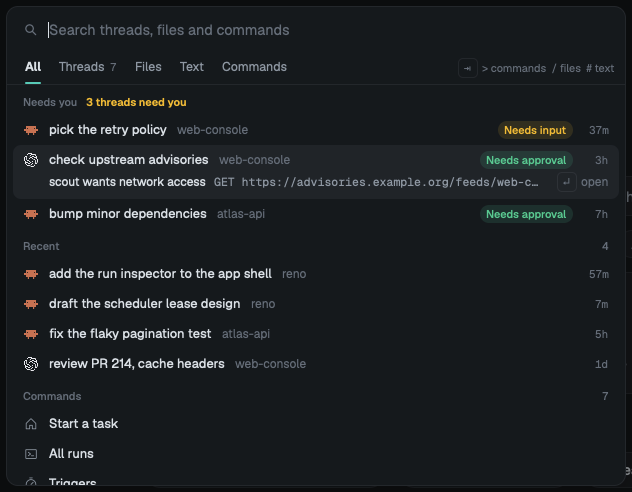
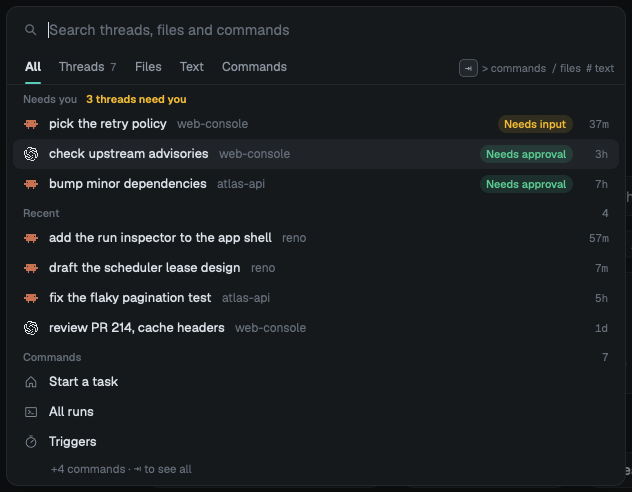
app: palette rows are one line, a held action too (owner)
Brief amendment 5: "we just show the title of session". The held-action line, its data
and its test go; the brief and its screenshot follow.

diff --git a/apps/reno-app/src/vm/palette.rs b/apps/reno-app/src/vm/palette.rs
@@ -56,14 +56,6 @@ impl Tab {
     }
 }
 
-/// A held action of a thread, in words, and its exact command.
-#[derive(Clone, Debug, PartialEq, Eq)]
-pub(crate) struct Held {
-    /// "scout wants network access", worded as Home's approval card.
-    pub(crate) sentence: String,
-    pub(crate) command: String,
-}
-
 /// One thread the palette can open.
 #[derive(Clone, Debug, PartialEq, Eq)]
 pub(crate) struct Thread {
@@ -77,8 +69,6 @@ pub(crate) struct Thread {
     pub(crate) dot: Dot,
     pub(crate) age: String,
     pub(crate) updated_ms: u64,
-    /// Set when its latest run holds an action for the person.
-    pub(crate) held: Option<Held>,
 }
 
 /// One matching line of a file.
@@ -495,12 +485,8 @@ pub(crate) fn step(selected: usize, len: usize, down: bool) -> usize {
     }
 }
 
-/// The palette's threads, from the sidebar's folders. `updated` and `held` read the run.
-pub(crate) fn threads(
-    folders: &[Folder],
-    updated: impl Fn(&RunId) -> u64,
-    held: impl Fn(&RunId) -> Option<Held>,
-) -> Vec<Thread> {
+/// The palette's threads, from the sidebar's folders. `updated` reads the run.
+pub(crate) fn threads(folders: &[Folder], updated: impl Fn(&RunId) -> u64) -> Vec<Thread> {
     folders
         .iter()
         .flat_map(|folder| {
@@ -513,7 +499,6 @@ pub(crate) fn threads(
                 dot: row.dot,
                 age: row.age.clone(),
                 updated_ms: updated(&row.run),
-                held: held(&row.run),
             })
         })
         .collect()
@@ -543,7 +528,6 @@ mod tests {
             },
             age: "1h".to_owned(),
             updated_ms,
-            held: None,
         }
     }
 
@@ -901,7 +885,7 @@ mod tests {
     }
 
     #[test]
-    fn threads_come_from_the_sidebar_rows_with_their_project_and_held_action() {
+    fn threads_come_from_the_sidebar_rows_with_their_project() {
         let row = ThreadRow {
             thread: None,
             run: run("scout1"),
@@ -919,16 +903,11 @@ mod tests {
             waiting: 1,
             rows: vec![row],
         }];
-        let held = Held {
-            sentence: "scout wants network access".to_owned(),
-            command: "GET https://advisories.example.org/feeds/web-console.json".to_owned(),
-        };
-        let out = threads(&folders, |_| 42, |_| Some(held.clone()));
+        let out = threads(&folders, |_| 42);
         assert_eq!(out.len(), 1);
         assert_eq!(out[0].title, "check upstream advisories");
         assert_eq!(out[0].project, "web-console");
         assert_eq!(out[0].executor, "codex");
         assert_eq!(out[0].updated_ms, 42);
-        assert_eq!(out[0].held, Some(held));
     }
 }

diff --git a/apps/reno-app/src/ui/palette.rs b/apps/reno-app/src/ui/palette.rs
@@ -567,22 +567,11 @@ impl Palette {
                 .child(el)
         };
         let title = |e: StyledText| div().flex_shrink(1.0).min_w_0().truncate().child(e);
-        let mut second: Option<AnyElement> = None;
         let (line, spoken) = match item {
             Item::Thread(t) => {
-                if on && let Some(held) = &t.held {
-                    second = Some(held_line(
-                        theme,
-                        held.sentence.clone(),
-                        held.command.clone(),
-                    ));
-                }
-                let spoken = match (t.badge, &t.held) {
-                    (Some(b), Some(h)) if on => {
-                        format!("{}, {}, {}", t.title, b.label(), h.sentence)
-                    }
-                    (Some(b), _) => format!("{}, {}", t.title, b.label()),
-                    _ => t.title.clone(),
+                let spoken = match t.badge {
+                    Some(b) => format!("{}, {}", t.title, b.label()),
+                    None => t.title.clone(),
                 };
                 (
                     line.child(glyph(kit::logo(theme, &t.executor, 14.0)))
@@ -664,45 +653,8 @@ impl Palette {
                 cx.listener(move |this, _, _, cx| this.activate_item(item.clone(), cx))
             })
             .child(line)
-            .children(second)
             .into_any_element()
     }
-}
-
-/// A selected held action's second line: its sentence, its command, and what ↵ does.
-fn held_line(theme: &Theme, sentence: String, command: String) -> AnyElement {
-    div()
-        .id("palette-held")
-        .debug_selector(|| "palette-held".to_owned())
-        .pl(px(26.0))
-        .pb(px(7.0))
-        .mt(px(-3.0))
-        .flex()
-        .items_center()
-        .gap(px(8.0))
-        .text_size(px(12.0))
-        .child(div().flex_none().text_color(theme.text).child(sentence))
-        .child(
-            div()
-                .min_w_0()
-                .truncate()
-                .font_family(MONO)
-                .text_size(px(11.5))
-                .text_color(theme.muted)
-                .child(command),
-        )
-        .child(div().flex_1())
-        .child(
-            div()
-                .flex_none()
-                .flex()
-                .items_center()
-                .gap(px(4.0))
-                .text_color(theme.faint)
-                .child(kit::keycap(theme, "\u{21b5}", None))
-                .child("open"),
-        )
-        .into_any_element()
 }
 
 impl Render for Palette {

diff --git a/apps/reno-app/src/palette_tests.rs b/apps/reno-app/src/palette_tests.rs
@@ -113,7 +113,7 @@ fn enter_opens_the_first_waiting_thread(cx: &mut TestAppContext) {
 }
 
 #[gpui::test]
-fn typing_filters_and_a_held_action_carries_its_sentence_and_command(cx: &mut TestAppContext) {
+fn typing_filters_the_threads(cx: &mut TestAppContext) {
     let store = held(cx);
     let (root, vcx) = opened(cx, &store);
     vcx.simulate_keystrokes("cmd-k a d v i s");
@@ -121,32 +121,32 @@ fn typing_filters_and_a_held_action_carries_its_sentence_and_command(cx: &mut Te
     let s = sheet(vcx, &root);
     let threads = s.sections.iter().find(|x| x.kind == Kind::Threads).unwrap();
     assert_eq!(thread_title(&threads.items[0]), "check upstream advisories");
-    match &threads.items[0] {
-        Item::Thread(t) => {
-            let held = t.held.as_ref().expect("scout's fetch is held");
-            assert_eq!(held.sentence, "scout wants network access");
-            assert!(
-                held.command.starts_with("GET https://advisories"),
-                "{held:?}"
-            );
-        }
-        _ => unreachable!(),
-    }
-    assert!(
-        painted(vcx, "palette-held"),
-        "the selected held row shows its second line"
-    );
 }
 
 #[gpui::test]
-fn a_waiting_question_shows_no_second_line(cx: &mut TestAppContext) {
+fn a_waiting_thread_is_one_line_whatever_it_waits_for(cx: &mut TestAppContext) {
     let store = held(cx);
     let (root, vcx) = opened(cx, &store);
     vcx.simulate_keystrokes("cmd-k");
     draw(vcx);
-    let first = selected(vcx, &root).unwrap();
-    assert_eq!(thread_title(&first), "pick the retry policy");
-    assert!(!painted(vcx, "palette-held"));
+    assert_eq!(
+        thread_title(&selected(vcx, &root).unwrap()),
+        "pick the retry policy"
+    );
+    assert!(
+        !painted(vcx, "palette-held"),
+        "a question: the badge says it"
+    );
+    vcx.simulate_keystrokes("down");
+    draw(vcx);
+    assert_eq!(
+        thread_title(&selected(vcx, &root).unwrap()),
+        "check upstream advisories"
+    );
+    assert!(
+        !painted(vcx, "palette-held"),
+        "a held action: the badge says it too"
+    );
 }
 
 #[gpui::test]
@@ -245,10 +245,6 @@ fn arrows_move_the_selection_and_wrap(cx: &mut TestAppContext) {
     assert_eq!(
         thread_title(&selected(vcx, &root).unwrap()),
         "check upstream advisories"
-    );
-    assert!(
-        painted(vcx, "palette-held"),
-        "the held approval opens its second line"
     );
     vcx.simulate_keystrokes("up up");
     draw(vcx);

diff --git a/apps/reno-app/src/app.rs b/apps/reno-app/src/app.rs
@@ -1241,20 +1241,9 @@ impl RootView {
                 thread_of: &|run| store.thread_of(run),
             },
         );
-        let threads = palette::threads(
-            &folders,
-            |run| state.run(run).map_or(0, |r| r.updated_at_ms),
-            |run| {
-                state.approvals_for(run).next().map(|a| palette::Held {
-                    sentence: format!(
-                        "{} {}",
-                        crate::summary::approval_bot(state, a).unwrap_or("A run"),
-                        crate::summary::approval_what(state, a)
-                    ),
-                    command: crate::summary::subject_line(&a.subject),
-                })
-            },
-        );
+        let threads = palette::threads(&folders, |run| {
+            state.run(run).map_or(0, |r| r.updated_at_ms)
+        });
         let scope = store.looking_at().and_then(|looking| {
             folders
                 .iter()

diff --git a/docs/design/2026-11-19-palette-ui-brief.md b/docs/design/2026-11-19-palette-ui-brief.md
@@ -7,12 +7,13 @@ Screenshot: [2026-11-19-palette-ui-brief.png](./2026-11-19-palette-ui-brief.png)
 ## Decision
 
 Direction **E "Compact tabs"**: the scope tabs and live counts of draft B, made compact (one-line
-rows, underline tabs, no footer), with draft D's waiting detail shrunk to one line and kept only
-for a held action. Five directions were drafted in the app on the fake daemon (A Spotlight list,
+rows, underline tabs, no footer). Every row is one line: a waiting thread shows its title and its
+badge, nothing more. Five directions were drafted in the app on the fake daemon (A Spotlight list,
 B Scoped tabs, C List + preview, D = A with C's waiting preview inline, E). The owner first
 agreed to D, then asked for "one more option upgrade from B - but make it more compact, and
 modern more", judged E "better", removed the question line ("the status dot is enough"), then
-"remove it and lock".
+"remove it and lock". Testing the build, the owner removed the held action's line as well: "we
+just show the title of session it good dont' make it complex".
 
 ## Grounding
 
@@ -114,22 +115,17 @@ The palette is the app's only search and its main way around: the sidebar has no
 - **Match:** the first occurrence of the query in a row's title, name or line is bold and
   `accent`.
 - **Selected:** `raised` at 75% fill. Hover is the same fill.
-- **Held action, selected:** the row grows a second line, indented to the title:
-  - the bot's sentence, as Home's approval card words it, in `text` ("scout wants network
-    access", "keeper wants to push to atlas-api");
-  - the exact command in Geist Mono 11.5 `muted`, truncating;
-  - right-aligned a ↵ keycap and "open".
-- **Question, selected:** no second line. The badge says it.
-- **Components:** rung 1 — `kit::logo`, `sidebar::badge_tag` (make it shared), `icon`, the panel's
-  `keycap` (move it into `kit`); `summary::parse_title`, `summary::approval_bot`,
-  `summary::action_word`, `summary::subject_line` for the held-action sentence and command.
+- **Waiting thread, selected:** still one line. The badge ("Needs input", "Needs approval") says
+  what it waits for; the thread itself says the rest.
+- **Components:** rung 1 — `kit::logo`, `sidebar::badge_tag` (make it shared), `icon`,
+  `kit::keycap`; `summary::parse_title` for the title.
 - **Keys and clicks:** ↑ ↓ move (wrapping); ↵ or a click activates:
   - a thread opens it (`open_run` on its latest run);
   - a command runs it;
   - a file opens it in the side panel's Files tab;
   - a line opens that file at that line.
 - **A11y:** each row is a button whose label includes the badge ("check upstream advisories,
-  Needs approval"); the second line is part of the selected row's label.
+  Needs approval").
 
 ## Type & color (summary)
 
@@ -149,12 +145,11 @@ selected, and the tabs count every kind of result before you switch.
 2. Then an extra direction from B, "more compact, and modern more": E.
 3. E chosen over D ("that better").
 4. No second line for a question: "the status dot is enough".
+5. No second line for a held action either (while testing the build): "we just show the title of
+   session it good dont' make it complex".
 
 ## Open for the build and the contracts (not decided here)
 
-- **Held-action line.** The owner removed the question line; the held-action line (with its
-  command) was kept because it shows what the badge cannot. Confirm before the build if it
-  should go too.
 - **File search needs a run.** `fs.search_files` and `fs.search_content` take a `run_id`, so on
   Home there is nothing to search (the "Open a thread…" state). Searching a project with no
   thread focused needs a project-level method (ROAD-52 / backend).
